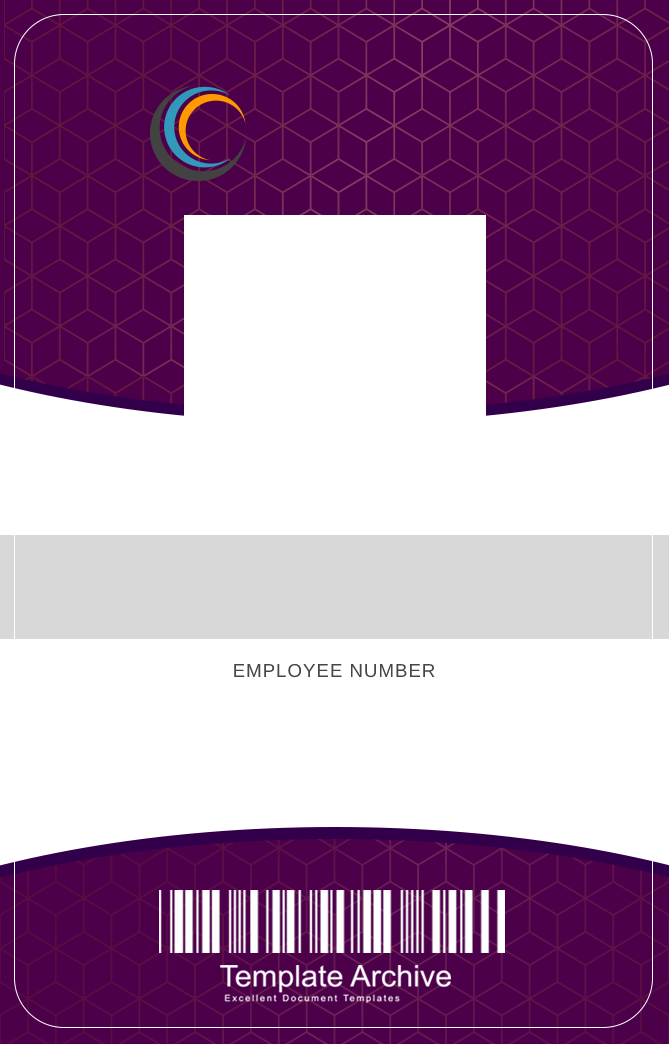
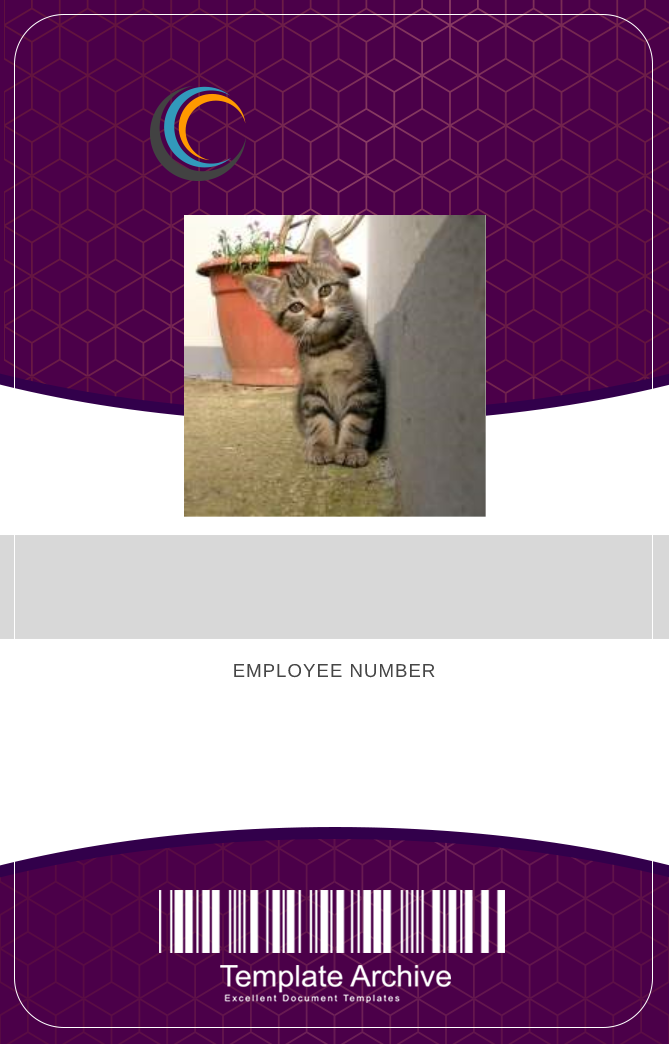
updates the logic for placement of employee photo on badge graphic.

Changed region(s): [[0.2691, 0.1839, 0.7474, 0.5211]]

diff --git a/Program.cs b/Program.cs
@@ -75,9 +75,9 @@ namespace CatWorx.BadgeMaker
                 Image badge = new Bitmap(BADGE_WIDTH, BADGE_HEIGHT);
                 Graphics graphic = Graphics.FromImage(badge);
                 graphic.DrawImage(background, new Rectangle(0, 0, BADGE_WIDTH, BADGE_HEIGHT));
+                graphic.DrawImage(photo, new Rectangle(PHOTO_START_X, PHOTO_START_Y, PHOTO_WIDTH, PHOTO_HEIGHT));
+                badge.Save("data/employeeBadge.png");
                 // background.Save("data/employeeBadge.png");
-                Console.WriteLine("Photo: " + photo.GetType());
-                Console.WriteLine("Background: " + background.GetType());
             }
         }
     }
